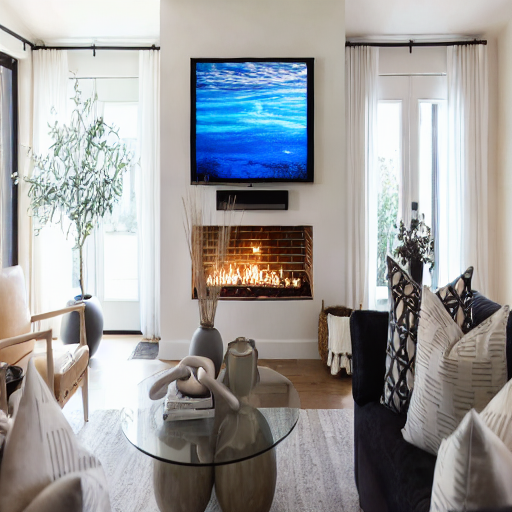
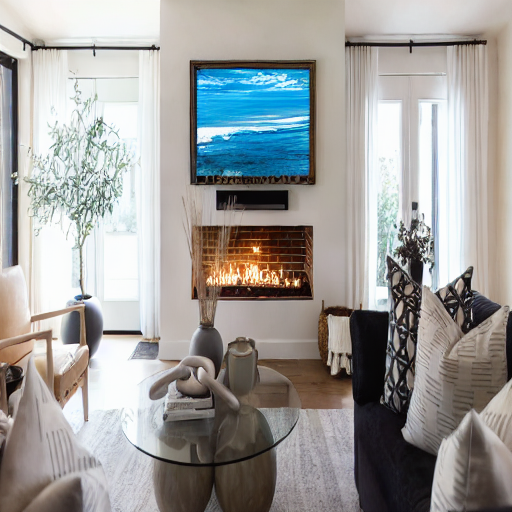
Mask Inpainting

diff --git a/sd_inpaint.py b/sd_inpaint.py
@@ -21,10 +21,6 @@ kernel = np.ones((3,3), np.uint8)
 mask_image = cv2.dilate(np.array(mask_image), kernel, iterations=10) # 경계영역 넓혀줌
 mask_image = cv2.resize(mask_image, (512,512))
 
-# mask_image의 채널 수가 3일 경우(컬러 이미지) 흑백으로 변환
-if mask_image.ndim == 3:
-    mask_image = cv2.cvtColor(mask_image, cv2.COLOR_BGR2GRAY)
-
 image = pipe(prompt=prompt, image=image, mask_image=Image.fromarray(mask_image)).images[0]
 
 image.save('/home/joseph/study/multimodal/ai_editor/my_data_result/inpainted.png')
